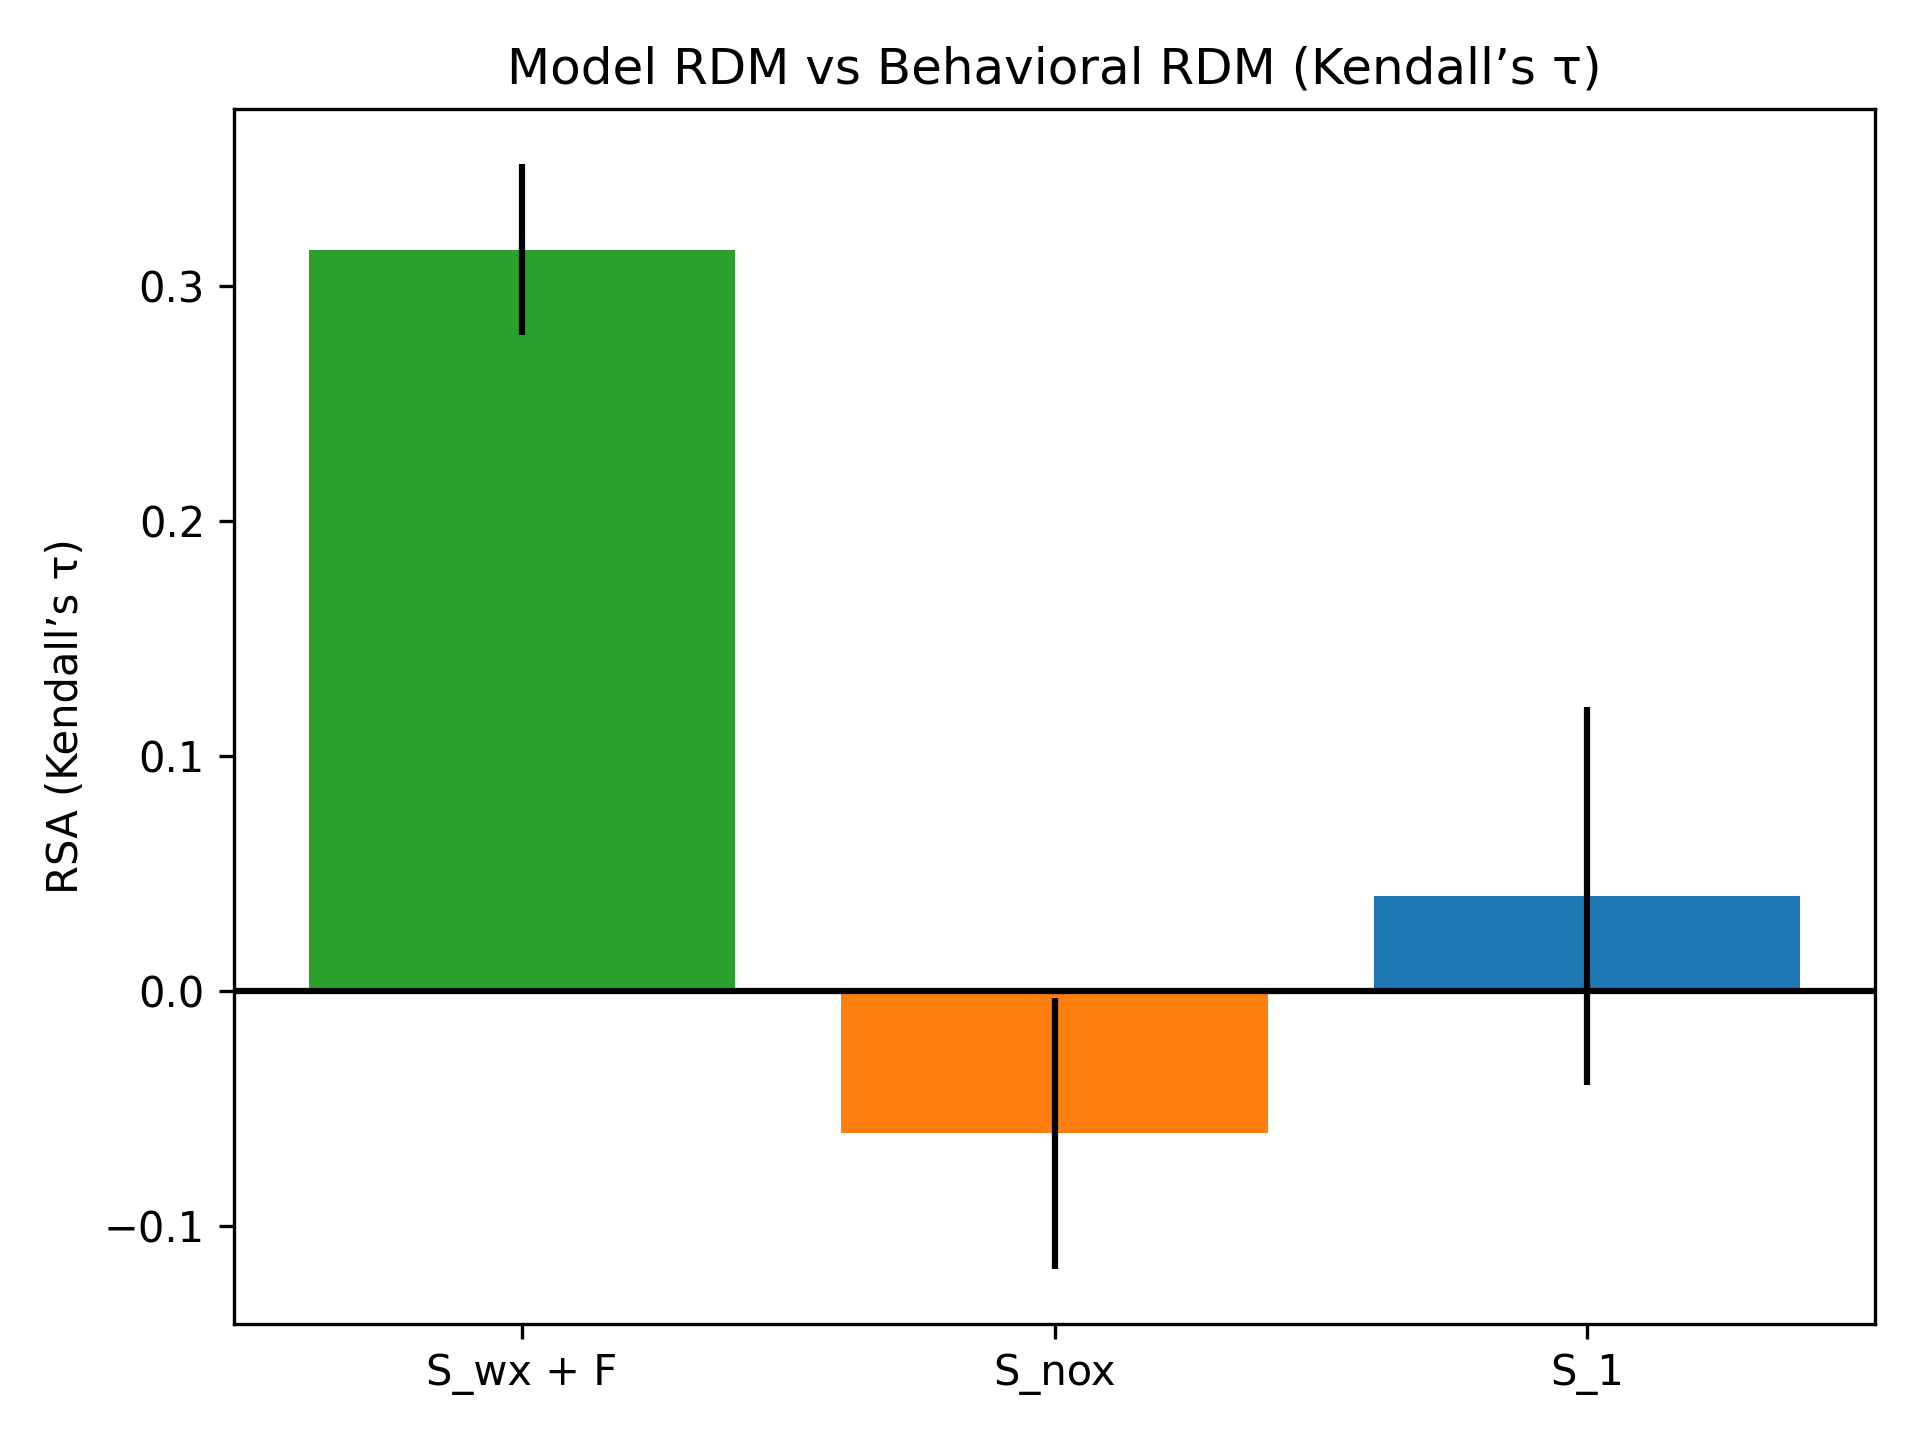
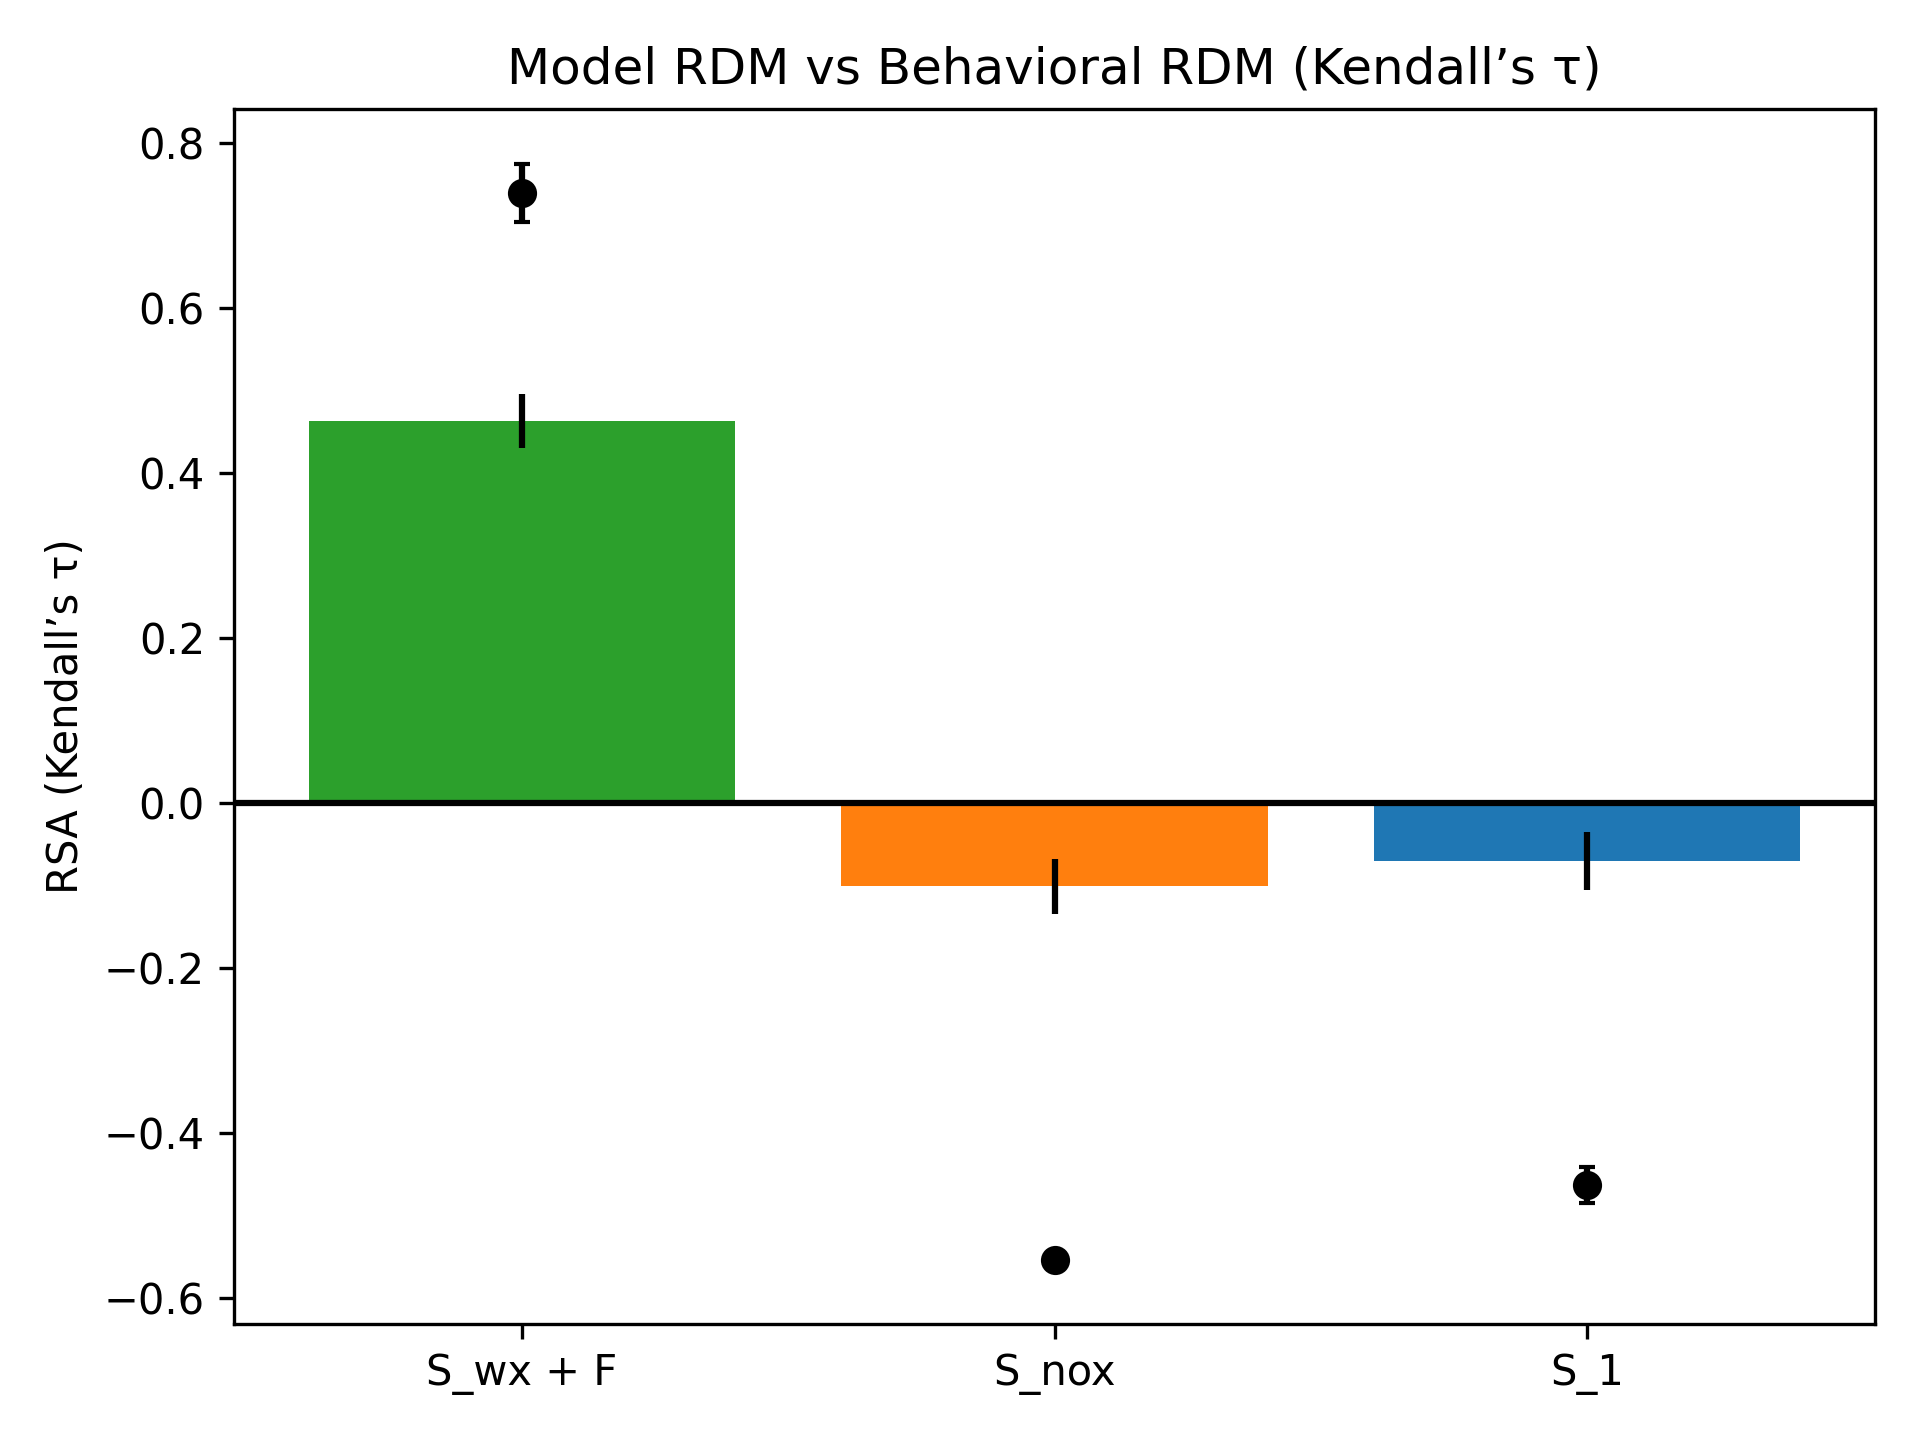
classifier results

diff --git a/plot_category_coding.py b/plot_category_coding.py
@@ -12,8 +12,8 @@ os.chdir(script_dir)
 
 
 def calculate_RSA(RDM1, RDM2):
-    RDM1 = RDM1[np.triu_indices(RDM1.shape[0], k=1)]
-    RDM2 = RDM2[np.triu_indices(RDM2.shape[0], k=1)]
+    RDM1 = RDM1[np.triu_indices(RDM1.shape[0], k=0)]
+    RDM2 = RDM2[np.triu_indices(RDM2.shape[0], k=0)]
 
     correlation, _ = kendalltau(RDM1, RDM2)
     return correlation
@@ -28,27 +28,23 @@ def LOO(rdms):
         correlation = calculate_RSA(rdms[i], np.mean(rdms[mask], axis=0))
         correlations.append(correlation)
 
-    return np.array(correlations)
+    return np.mean(correlations), stats.sem(correlations)
 
 
 def compute_noise_ceiling(rdm_behavior_all, model_cm_all_folds):
     # r1: behavioral reliability
-    r1_values = LOO(np.array(rdm_behavior_all))
+    # r1_values = LOO(np.array(rdm_behavior_all))
 
     # r2: model reliability
     model_rdms = []
     for cm in model_cm_all_folds:
         rdm_model = (cm + cm.T) / 2
-        rdm_model = 1 - (rdm_model / 6)
+        rdm_model = 1 - (rdm_model / rdm_model.max())
         model_rdms.append(rdm_model)
 
-    r2_values = LOO(np.array(model_rdms))
+    r2_values, re = LOO(np.array(model_rdms))
 
-    # Compute noise ceiling using mean of sqrt(r1_i * r2_j)
-    r_matrix = np.sqrt(np.outer(r1_values, r2_values))
-    r_matrix = r_matrix.flatten()
-
-    return np.mean(r_matrix), stats.sem(r_matrix)
+    return r2_values, re
 
 
 model_names = ["slowfast_r50", "slow_r50", "res_r50"]
@@ -66,16 +62,16 @@ for model_name in model_names:
     with open(f"result/confusions/{model_name}.pkl", "rb") as File:
         cm = pickle.load(File)
 
-    # nc_avg, nc_sem = compute_noise_ceiling(rdm_behavior_all, cm)
-    # NC_means.append(nc_avg)
-    # NC_sems.append(nc_sem)
+    nc_avg, nc_sem = compute_noise_ceiling(rdm_behavior_all, cm)
+    NC_means.append(nc_avg)
+    NC_sems.append(nc_sem)
 
     rsa_all_folds = []
 
     for fold_cm in cm:
         # Symmetrize and convert to RDM
         rdm_model = (fold_cm + fold_cm.T) / 2
-        rdm_model = 1 - (rdm_model / 6)
+        rdm_model = 1 - (rdm_model / rdm_model.max())
 
         rsa = calculate_RSA(rdm_behavior, rdm_model)
         rsa_all_folds.append(rsa)
@@ -97,10 +93,10 @@ bars = ax.bar(
 
 ax.axhline(y=0, color="black")
 
-# # Plot noise ceiling
-# ax.errorbar(
-#     x, NC_means, yerr=NC_sems, fmt="o", color="black", label="Noise Ceiling", capsize=5
-# )
+# Plot noise ceiling
+ax.errorbar(
+    x, NC_means, yerr=NC_sems, fmt="o", color="black", label="Noise Ceiling", capsize=2
+)
 
 ax.set_ylabel("RSA (Kendall’s τ)")
 ax.set_title("Model RDM vs Behavioral RDM (Kendall’s τ)")

diff --git a/plot_accuracy.py b/plot_accuracy.py
@@ -1,0 +1,62 @@
+import pickle
+import numpy as np
+import os
+import matplotlib.pyplot as plt
+from scipy import stats
+
+# Get the directory where the script is located
+script_dir = os.path.dirname(os.path.abspath(__file__))
+# Change to a relative directory from the script's location
+os.chdir(script_dir)
+
+model_names = ["slowfast_r50", "slow_r50", "res_r50"]
+
+acc_means = []
+acc_sems = []
+
+for model_name in model_names:
+    with open(f"result/confusions/{model_name}.pkl", "rb") as File:
+        cm = pickle.load(File)
+
+    acc_all_folds = []
+
+    for fold_cm in cm:
+        acc = np.diag(fold_cm) / np.sum(fold_cm, axis=1)
+        acc = np.append(acc, np.mean(acc))
+        acc_all_folds.append(acc)
+
+    acc_all_folds = np.array(acc_all_folds)
+
+    acc_means.append(np.mean(acc_all_folds, axis=0))
+    acc_sems.append(stats.sem(acc_all_folds, axis=0))
+
+acc_means = np.array(acc_means)
+acc_sems = np.array(acc_sems)
+
+# Plotting
+x = np.arange(len(model_names))
+width = 0.1  # Bar width
+
+files = sorted([f for f in os.listdir("stimuli") if f.startswith("processed_")])
+classnames = np.unique([f.split("_")[1] for f in files])
+classnames = np.append(classnames, "overall")
+
+fig, ax = plt.subplots()
+for i in range(acc.shape[0]):
+    ax.bar(
+        x + i * width,
+        acc_means[:, i],
+        width,
+        yerr=acc_sems[:, i],
+        label=f"{classnames[i]}",
+    )
+
+ax.axhline(y=(6 / 36), color="black", linestyle="dashed")
+
+ax.set_ylabel("Accuracy")
+ax.set_title("Network accuracy")
+ax.set_xticks(x + 3 * width)
+ax.set_xticklabels(["S_wx + F", "S_nox", "S_1"])
+plt.legend()
+plt.tight_layout()
+plt.savefig("plot/acc.png", dpi=300)

diff --git a/category_coding.py b/category_coding.py
@@ -86,7 +86,6 @@ class VideoDataset(Dataset):
     def get_labels(self):
         return [label_str for _, label_str in self.samples]
 
-
 def get_feature(model_name, dataset, device):
     if model_name == "res_r50":
         model = torch.hub.load(
